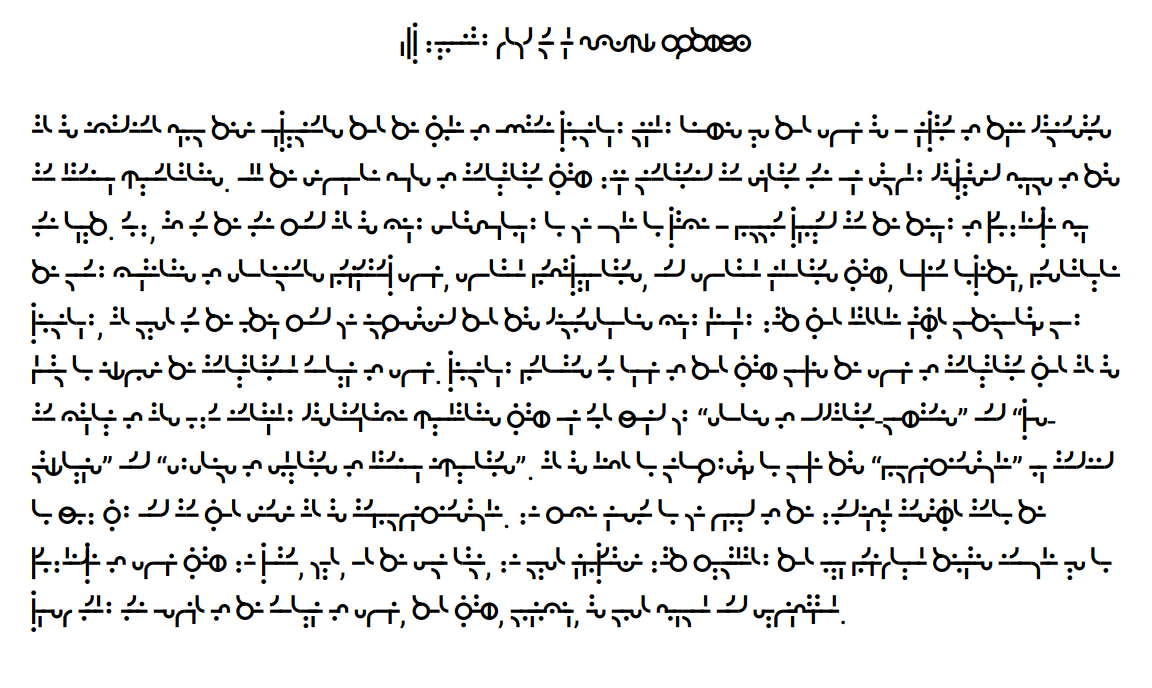
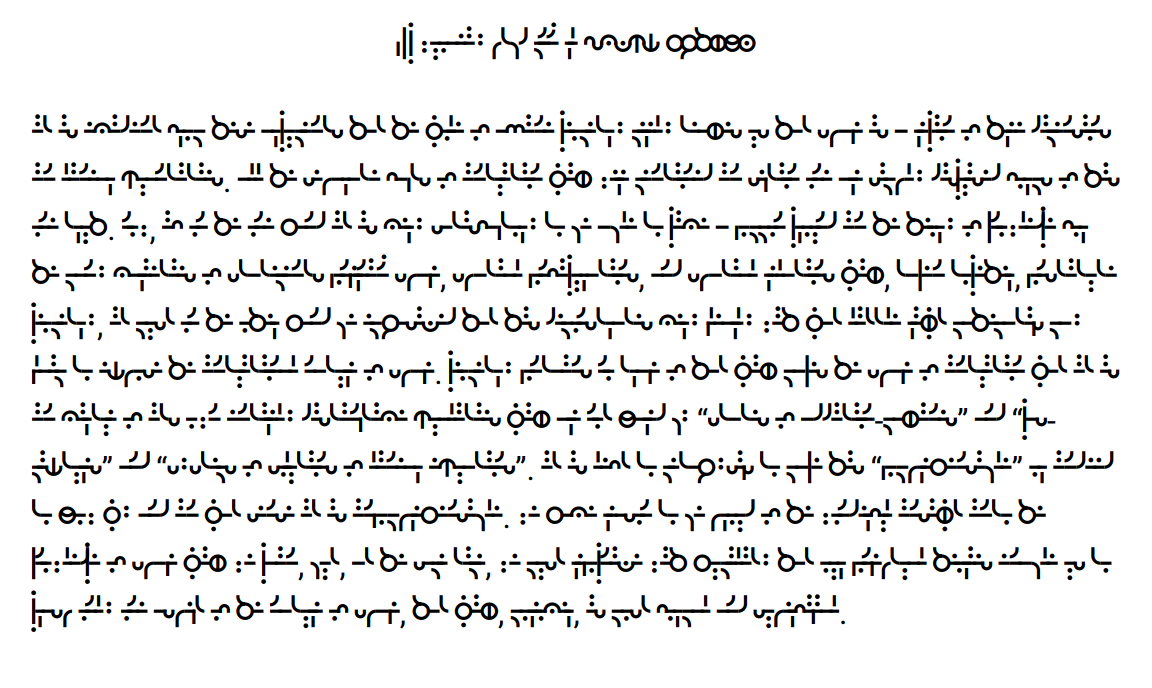
Add ng, refine wh

diff --git a/specimen/specimen.html b/specimen/specimen.html
@@ -55,7 +55,7 @@
   </head>
   <body>
     <section class="affine" style="line-height: 1;text-align: center;">
-      <p>ckg wuoaeiy ptbd mn rl fsvzqx hphthchshj</p>
+      <p>ckg wuoaeiy ptbd mnng rl fsvzqx hphthchshj</p>
     </section>
 
     <div class="screen-two-up">
